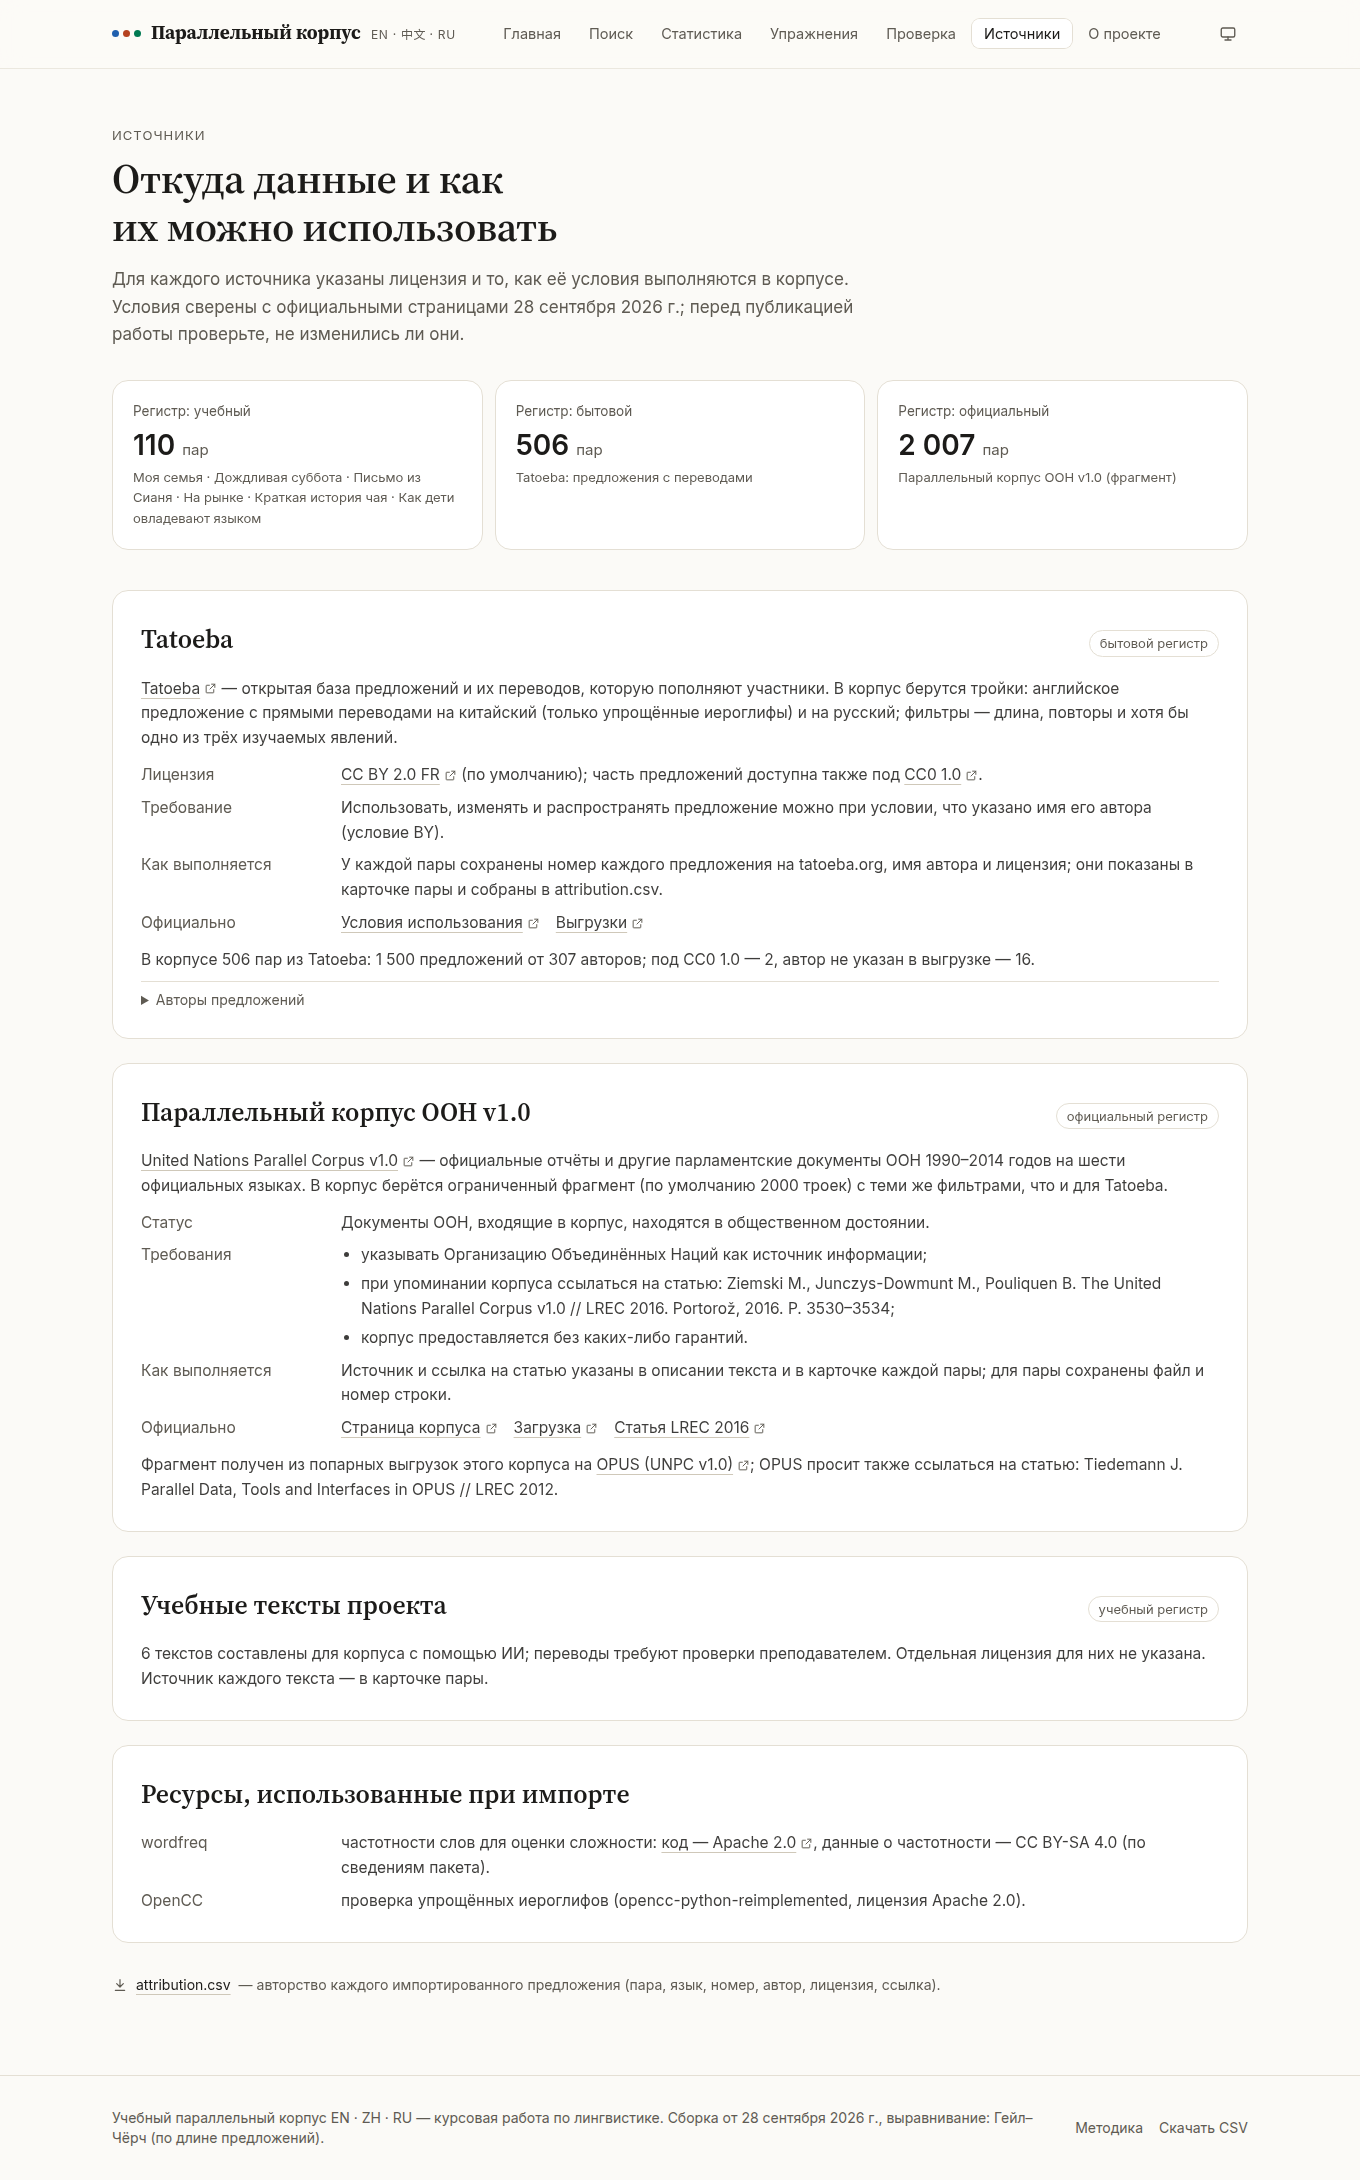
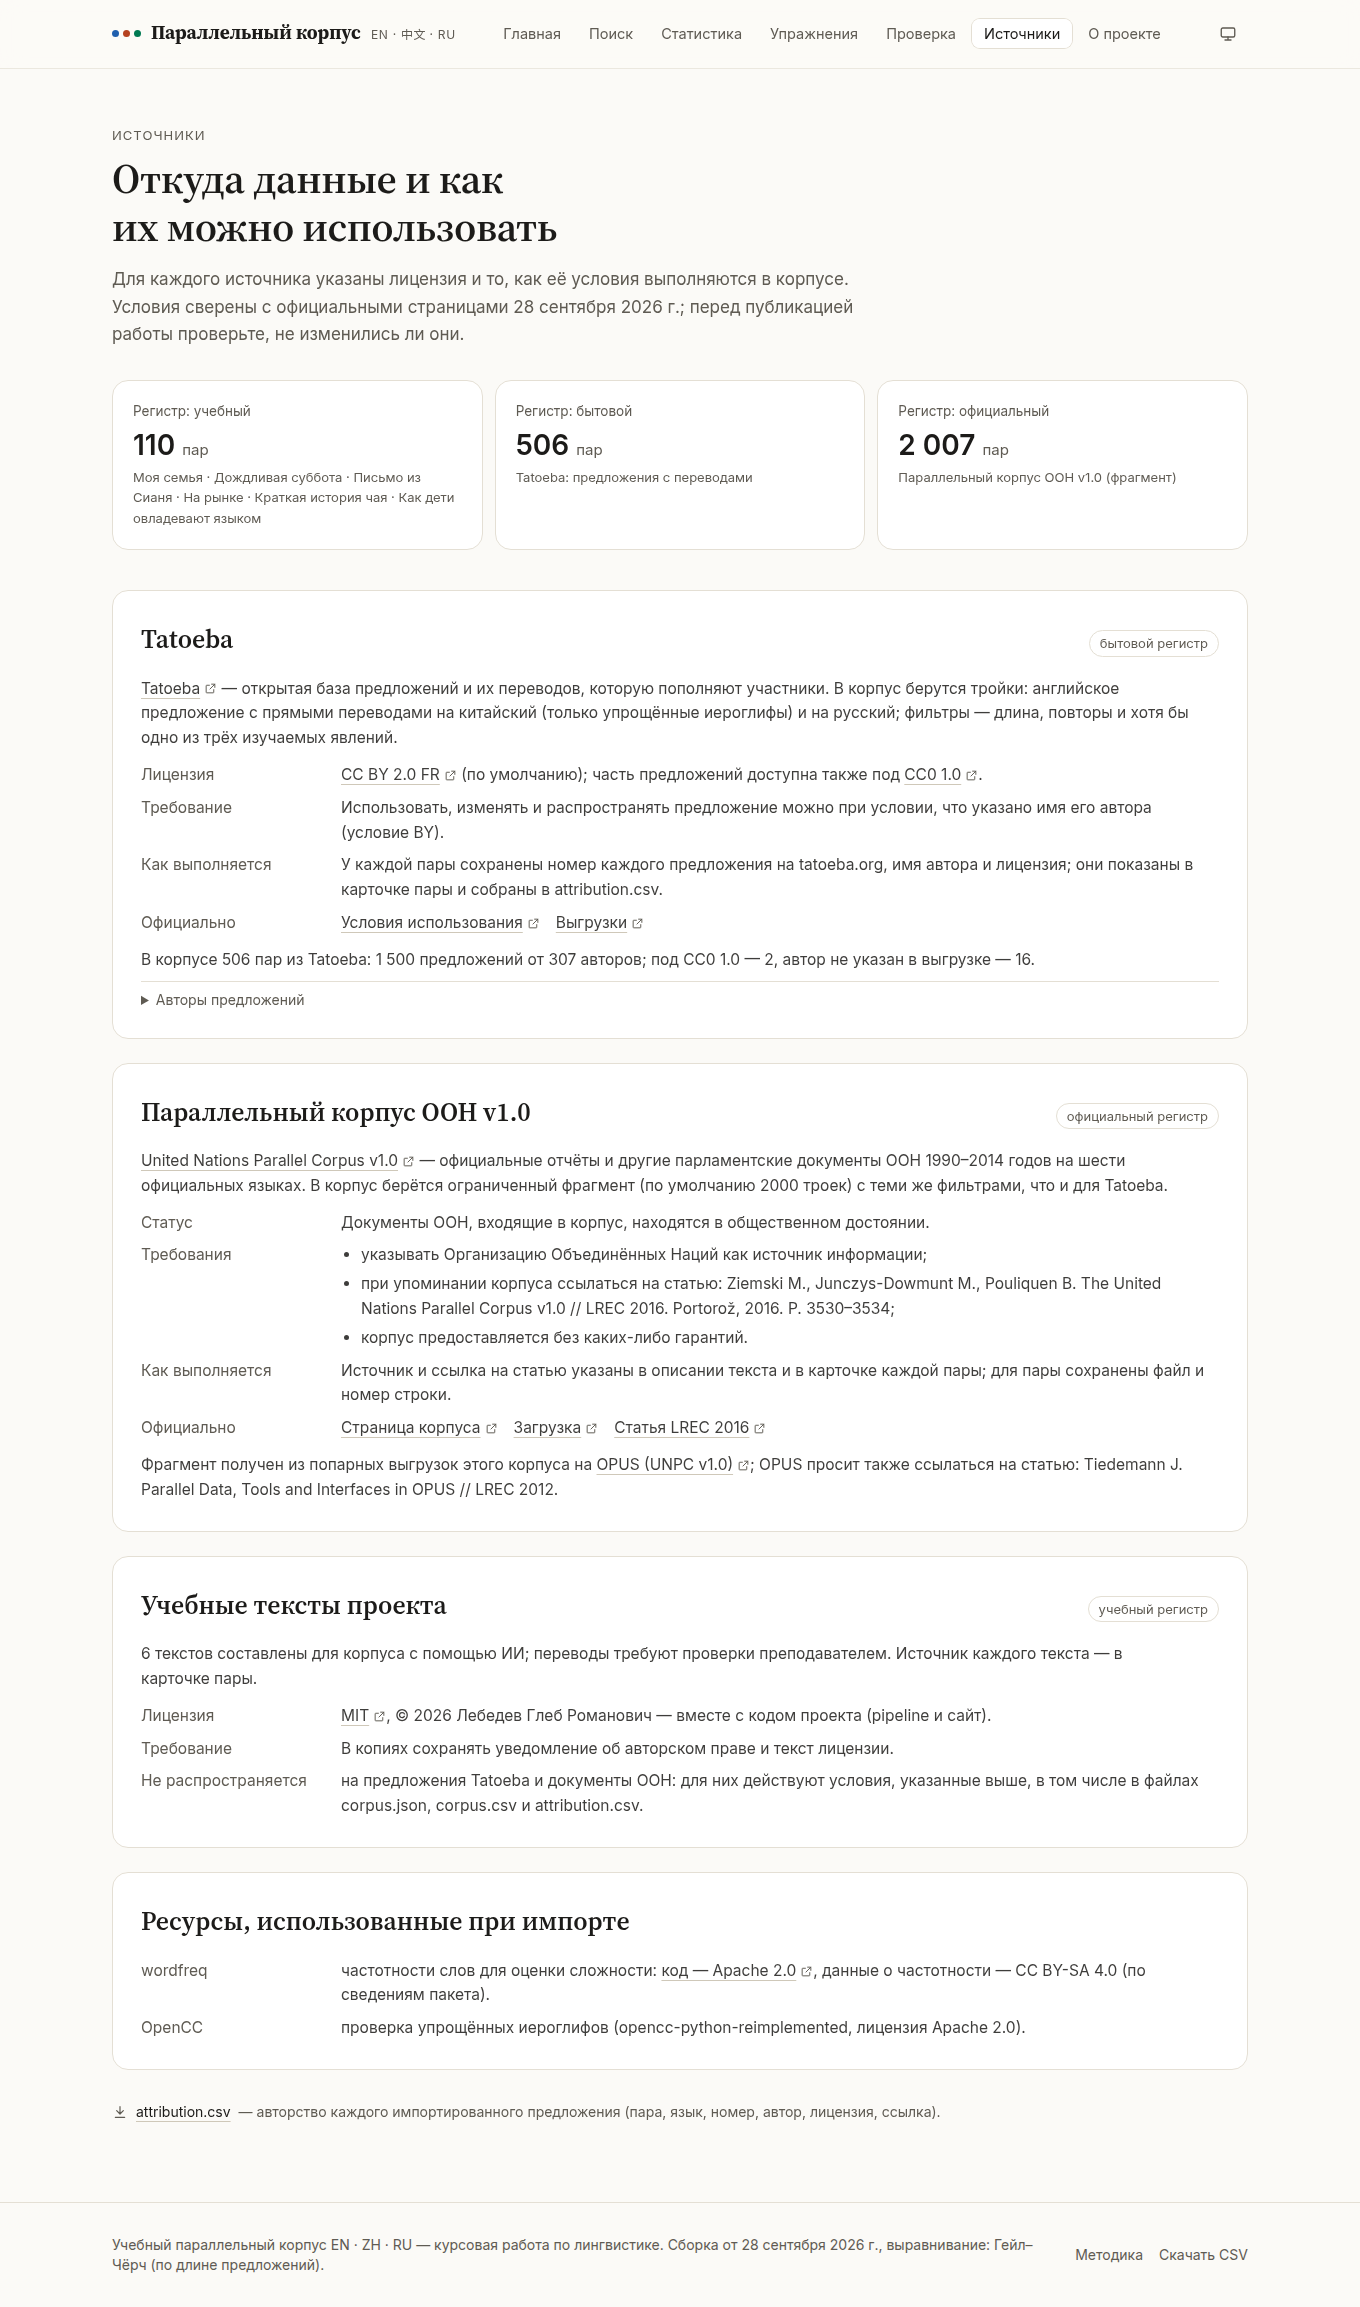
Лицензия: «Лебедев Глеб Романович», раздел в README, страница «Источники»
- LICENSE: строка авторских прав — Лебедев Глеб Романович
- README: раздел «Лицензия» — MIT для кода и учебных текстов; на данные
  Tatoeba и ООН MIT не распространяется, действуют условия источников;
  строка о проекте в таблице лицензий
- страница «Источники»: у учебных текстов — лицензия MIT и оговорка про
  импортированные данные (раньше: «отдельная лицензия не указана»)

Claude-Session: https://claude.ai/code/session_01VwrU7s5XidLXACidgrGHnc

diff --git a/web/src/pages/SourcesPage.tsx b/web/src/pages/SourcesPage.tsx
@@ -11,6 +11,7 @@ import { plural } from '../lib/labels';
 import { groupByRegister, tatoebaAuthors, unViaOpus } from '../lib/sources';
 
 const DATA = `${import.meta.env.BASE_URL}data/`;
+const REPO = 'https://github.com/lolkotick/corpus';
 /** Когда условия лицензий сверялись с официальными страницами. */
 const CHECKED_AT = '28 сентября 2026 г.';
 const LINK = 'underline decoration-rule-strong underline-offset-4 hover:decoration-ink';
@@ -231,9 +232,25 @@ function SourcesContent({ corpus }: CorpusIndex) {
               'текста составлены',
               'текстов составлены',
             )}{' '}
-            для корпуса с помощью ИИ; переводы требуют проверки преподавателем. Отдельная лицензия
-            для них не указана. Источник каждого текста — в карточке пары.
+            для корпуса с помощью ИИ; переводы требуют проверки преподавателем. Источник каждого
+            текста — в карточке пары.
           </p>
+          <Terms
+            rows={[
+              [
+                'Лицензия',
+                <>
+                  <Ext href={`${REPO}/blob/main/LICENSE`}>MIT</Ext>, © 2026 Лебедев Глеб Романович —
+                  вместе с кодом проекта (pipeline и сайт).
+                </>,
+              ],
+              ['Требование', 'В копиях сохранять уведомление об авторском праве и текст лицензии.'],
+              [
+                'Не распространяется',
+                'на предложения Tatoeba и документы ООН: для них действуют условия, указанные выше, в том числе в файлах corpus.json, corpus.csv и attribution.csv.',
+              ],
+            ]}
+          />
         </Card>
 
         <Card id="src-tools" title="Ресурсы, использованные при импорте">

diff --git a/README.md b/README.md
@@ -340,6 +340,7 @@ A2 0,204, B1 0,240, B2 0,316, C1 0,374; 110 пар). Ранговая корре
 
 | Источник | Лицензия | Что нужно делать |
 |---|---|---|
+| Код и учебные тексты проекта | [MIT](LICENSE), © 2026 Лебедев Глеб Романович | сохранять уведомление об авторском праве и текст лицензии в копиях |
 | Tatoeba | [CC BY 2.0 FR](https://creativecommons.org/licenses/by/2.0/fr/); часть предложений — также [CC0 1.0](https://creativecommons.org/publicdomain/zero/1.0/) ([условия](https://tatoeba.org/terms_of_use)) | указывать имя автора предложения |
 | Корпус ООН | документы ООН в общественном достоянии ([страница корпуса](https://www.un.org/dgacm/en/content/uncorpus)) | указывать ООН как источник; при упоминании корпуса ссылаться на Ziemski, Junczys-Dowmunt, Pouliquen (2016), LREC 2016; корпус предоставляется без гарантий |
 | OPUS (если данные ООН получены через него) | — | OPUS просит ссылаться на Tiedemann J. Parallel Data, Tools and Interfaces in OPUS // LREC 2012 |
@@ -616,3 +617,21 @@ python -m pipeline errors
   разметит эталон (`data/gold/gold.json`) и участники пройдут тест (`data/approbation/`).
   До этого отчёты содержат инструкцию, а не числа.
 - Шрифты подключаются с Google Fonts; без интернета сайт использует системные шрифты.
+
+## Лицензия
+
+Код проекта (pipeline, сайт, скрипты), учебные тексты в `data/raw/` (кроме `tatoeba/` и
+`un_corpus/`) и документация распространяются по лицензии MIT — см. [`LICENSE`](LICENSE).
+© 2026 Лебедев Глеб Романович.
+
+**Лицензия MIT не распространяется на импортированные данные.** Для них, в том числе в
+производных файлах (`web/public/data/*`, `reports/*`), действуют условия источников:
+
+- `data/raw/tatoeba/` и пары `tatoeba-*` — [CC BY 2.0 FR](https://creativecommons.org/licenses/by/2.0/fr/)
+  (часть предложений — CC0 1.0): при использовании указывайте авторов предложений (список —
+  `web/public/data/attribution.csv`);
+- `data/raw/un_corpus/` и пары `un_corpus-*` — документы ООН в общественном достоянии:
+  указывайте ООН как источник и ссылайтесь на Ziemski, Junczys-Dowmunt, Pouliquen (2016);
+  данные получены через OPUS, который просит ссылаться на Tiedemann (2012).
+
+Подробно — раздел «Лицензии и указание авторства» выше и страница «Источники» на сайте.
